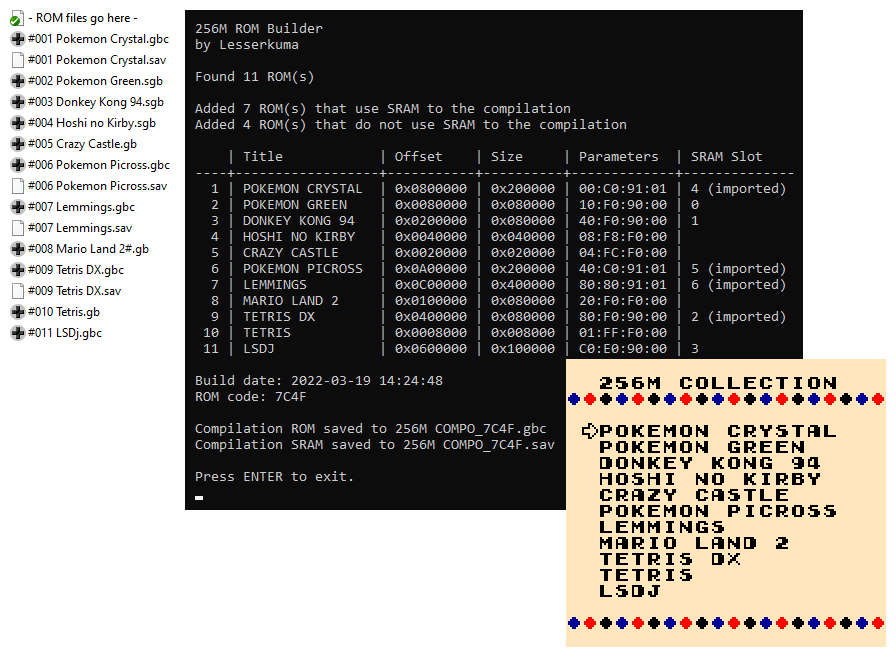
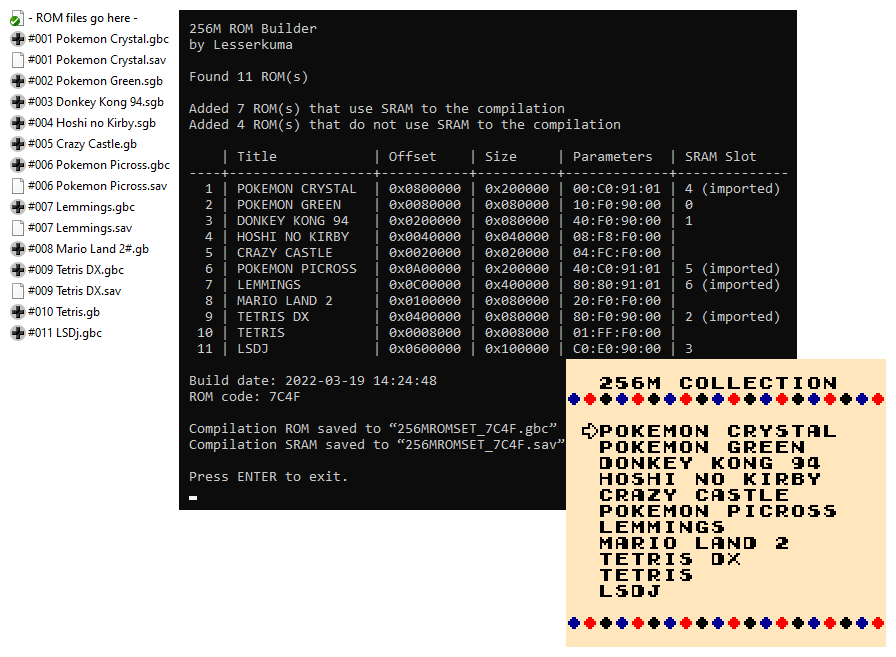
0.6

Changed region(s): [[0.1875, 0.0, 0.9062, 0.7915]]

diff --git a/256m_rom_builder.py b/256m_rom_builder.py
@@ -5,7 +5,7 @@
 import math, glob, re, os, datetime, time, hashlib, time, sys, argparse, struct
 
 # Configuration
-app_version = "0.5"
+app_version = "0.6"
 default_menu_title = "256M COLLECTION"
 default_file = "256MROMSET_<CODE>.gbc"
 
@@ -200,6 +200,11 @@ if args.export is False and args.import_sram is False:
 				lprint("Error: Can’t add {:s} (size: 0x{:X}) because it exceeds the maximum size of the compilation".format(rom["filename"], rom["size"]))
 	lprint("Added {:d} ROM(s) that do not use SRAM to the compilation".format(len(rom_map) - len(sram_slots_used)))
 
+	if len(rom_map) == 0:
+		lprint("\nPlease place ROM files into the “roms” directory.")
+		if not args.no_wait: input("\nPress ENTER to exit.\n")
+		sys.exit(1)
+
 	# Patch Menu ROM
 	roms_added = 0
 	table_lines = {}
@@ -244,7 +249,7 @@ if args.export is False and args.import_sram is False:
 		table_lines = dict(sorted(table_lines.items()))
 		for table_line in table_lines.values():
 			lprint(table_line)
-
+	
 	# Add some metadata to menu ROM
 	c = 0
 	for k, v in rom_map.items():
@@ -305,14 +310,14 @@ if args.export is False and args.import_sram is False:
 			if pos >= len(output): break
 			output_file = "{:s}_part{:d}{:s}".format(name, i+1, ext)
 			with open(output_file, "wb") as f: f.write(output[pos:pos+0x800000])
-			lprint("Compilation part {:d} saved to {:s}".format(i+1, output_file))
+			lprint("Compilation part {:d} saved to “{:s}”".format(i+1, output_file))
 	else:
 		with open(output_file, "wb") as f: f.write(output)
-		lprint("Compilation ROM saved to {:s}".format(output_file))
+		lprint("Compilation ROM saved to “{:s}”".format(output_file))
 		if output_sram != bytearray([0x00] * 0x80000):
 			fn = os.path.splitext(output_file)[0] + ".sav"
 			with open(fn, "wb") as f: f.write(output_sram)
-			lprint("Compilation SRAM saved to {:s}".format(fn))
+			lprint("Compilation SRAM saved to “{:s}”".format(fn))
 
 ##############################
 else: # ROM/SRAM Export/Import
@@ -413,7 +418,7 @@ else: # ROM/SRAM Export/Import
 		
 		if not os.path.exists(dir):
 			if args.import_sram:
-				lprint("Error: No files found for importing!\nWill now instead export files to: ./{:s}\nYou can then replace the individual .sav files and run the import again.".format(dir))
+				lprint("Error: No files found for importing!\nWill now instead export files to the “{:s}” directory.\nYou can then replace the individual .sav files and run the import again.".format(dir))
 				args.export = True
 				args.import_sram = False
 				try:
@@ -424,17 +429,17 @@ else: # ROM/SRAM Export/Import
 		sram_file_game = "{:s}/#{:03d} {:s}.sav".format(dir, data["index"]+1, data["title"])
 		rom_file_game = "{:s}/#{:03d} {:s}{:s}{:s}".format(dir, data["index"]+1, data["title"], "#" if no_sram else "", ext)
 		if args.export:
-			lprint("Exporting ROM #{:d} to {:s}".format(data["index"]+1, rom_file_game))
+			lprint("Exporting ROM #{:d} to “{:s}”".format(data["index"]+1, rom_file_game))
 			with open(rom_file_game, "wb") as f: f.write(compilation[data["offset"]:data["offset"]+data["size"]])
 			if sram is not None and "sram_id" in data:
-				lprint("Exporting SRAM #{:d} to {:s}".format(data["sram_id"], sram_file_game))
+				lprint("Exporting SRAM #{:d} to “{:s}”".format(data["sram_id"], sram_file_game))
 				with open(sram_file_game, "wb") as f: f.write(sram[data["sram_address"]:data["sram_address"]+data["sram_size"]])
 		elif args.import_sram:
 			if not os.path.exists(sram_file_game): continue
 			with open(sram_file_game, "rb") as f: sram_game = f.read(data["sram_size"])
 			sram[data["sram_address"]:data["sram_address"]+data["sram_size"]] = sram_game
 			with open(file_sram, "wb") as f: f.write(sram)
-			lprint("Importing {:s} into SRAM #{:d}".format(sram_file_game, data["sram_id"]))
+			lprint("Importing “{:s}” into SRAM #{:d}".format(sram_file_game, data["sram_id"]))
 
 ################################
 if not args.no_log:
